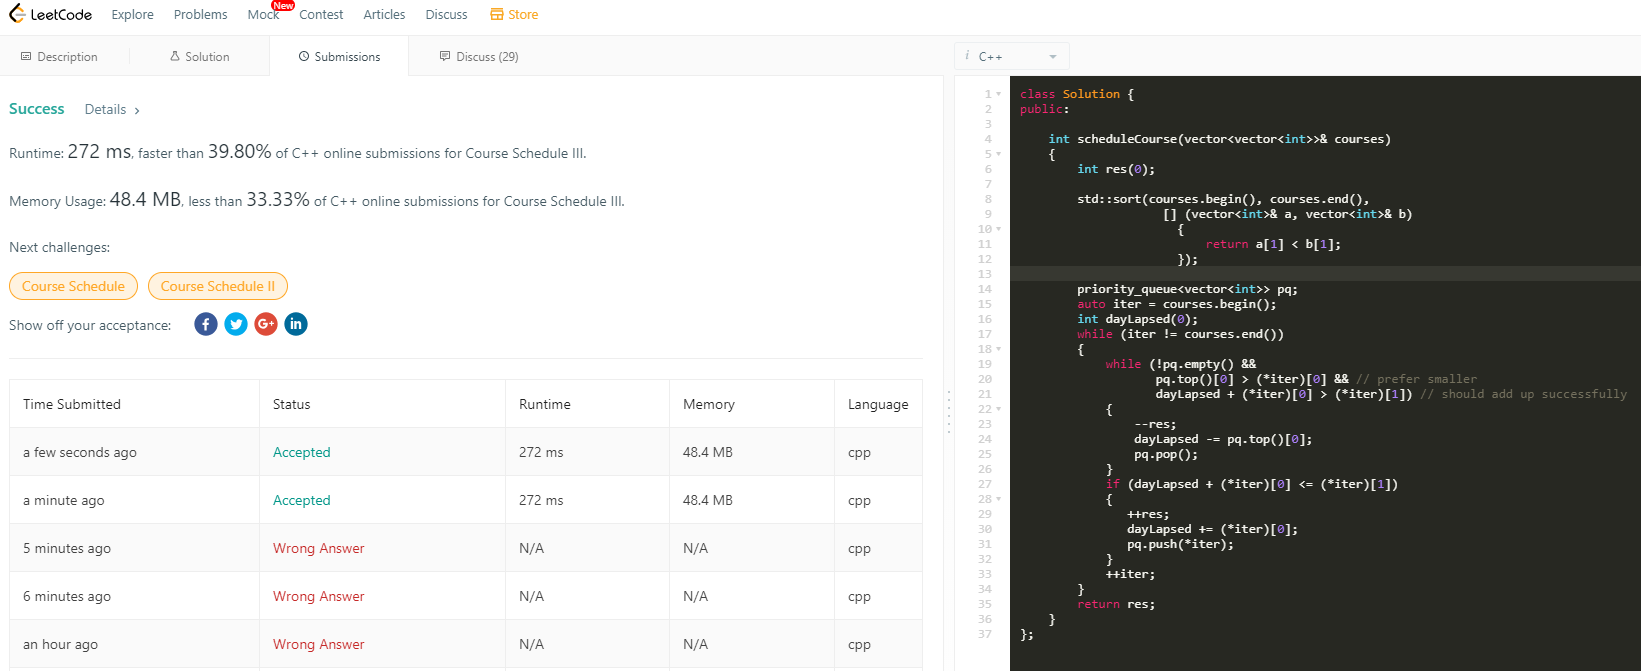
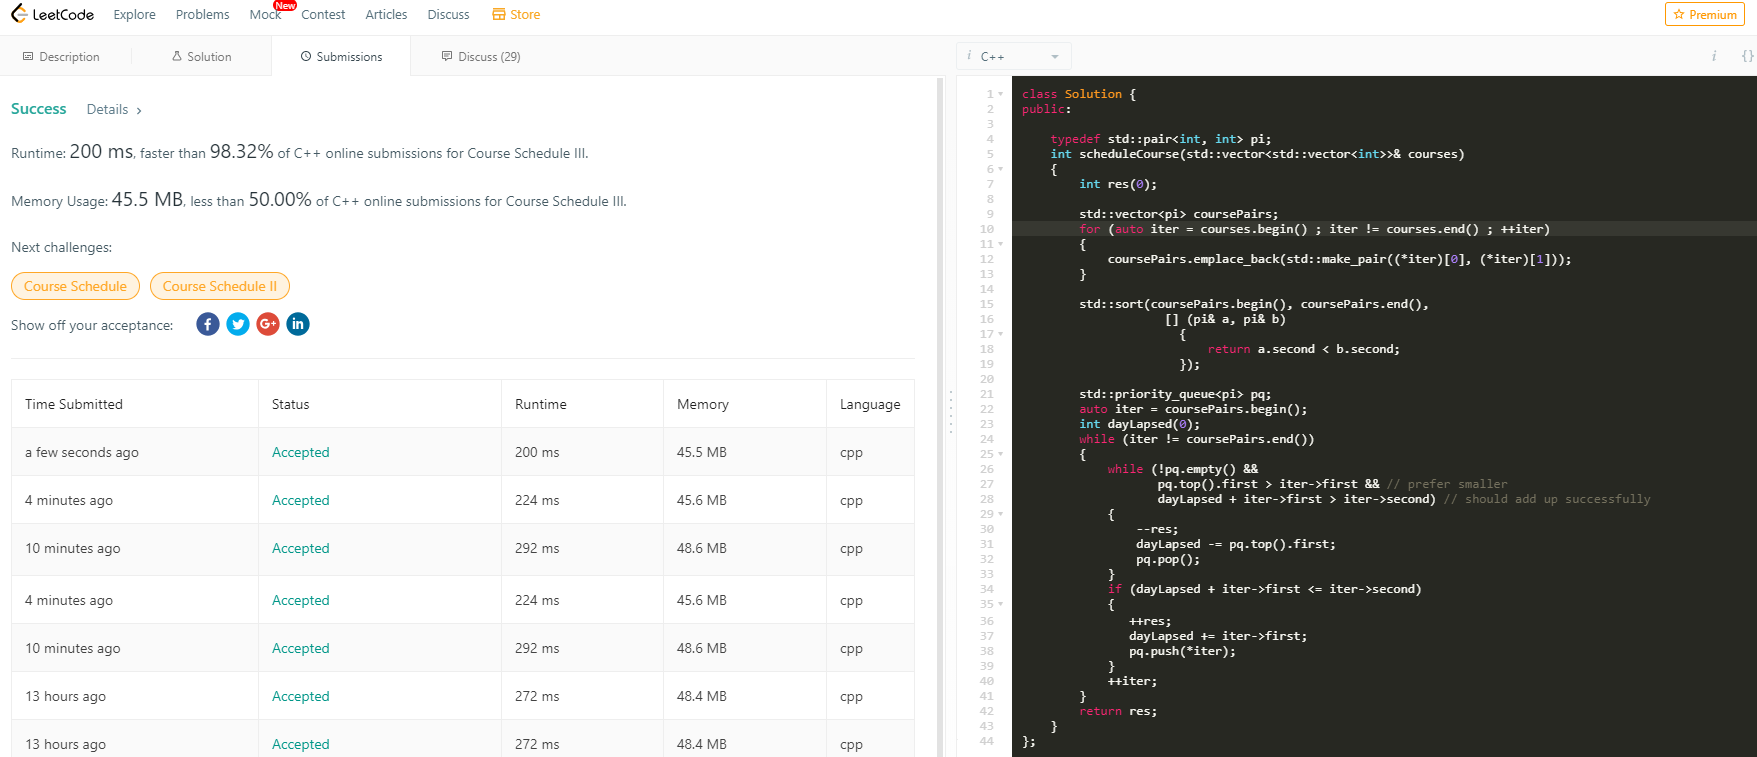
[Easy] - Merge-two-binary-trees - Pic update for course-schedule-iii

diff --git a/leetcode/merge-two-binary-trees.cpp b/leetcode/merge-two-binary-trees.cpp
@@ -1,0 +1,46 @@
+#include <iostream>
+
+/**
+ *Definition for a binary tree node.
+ */
+struct TreeNode {
+    int val;
+    TreeNode *left;
+    TreeNode *right;
+    TreeNode(int x) : val(x), left(NULL), right(NULL) {}
+};
+
+TreeNode* mergeTrees(TreeNode* t1, TreeNode* t2) 
+{
+    if (!t1 && !t2)
+        return nullptr;
+
+    if (!t1)
+    {
+        return t2;
+    }
+
+    if (t2)
+    {
+        t1->val += t2->val;
+    }
+    else
+    {
+        return t1;
+    }
+
+    t1->left = mergeTrees(t1->left, t2->left);
+    t1->right = mergeTrees(t1->right, t2->right);
+
+    return t1;
+}
+
+int main (int argc, char* argv[])
+{
+    TreeNode* input_left = new TreeNode(2);
+    TreeNode* input_right = new TreeNode(3);
+
+    TreeNode* res = mergeTrees(input_left, input_right);
+
+    return 0;
+}
